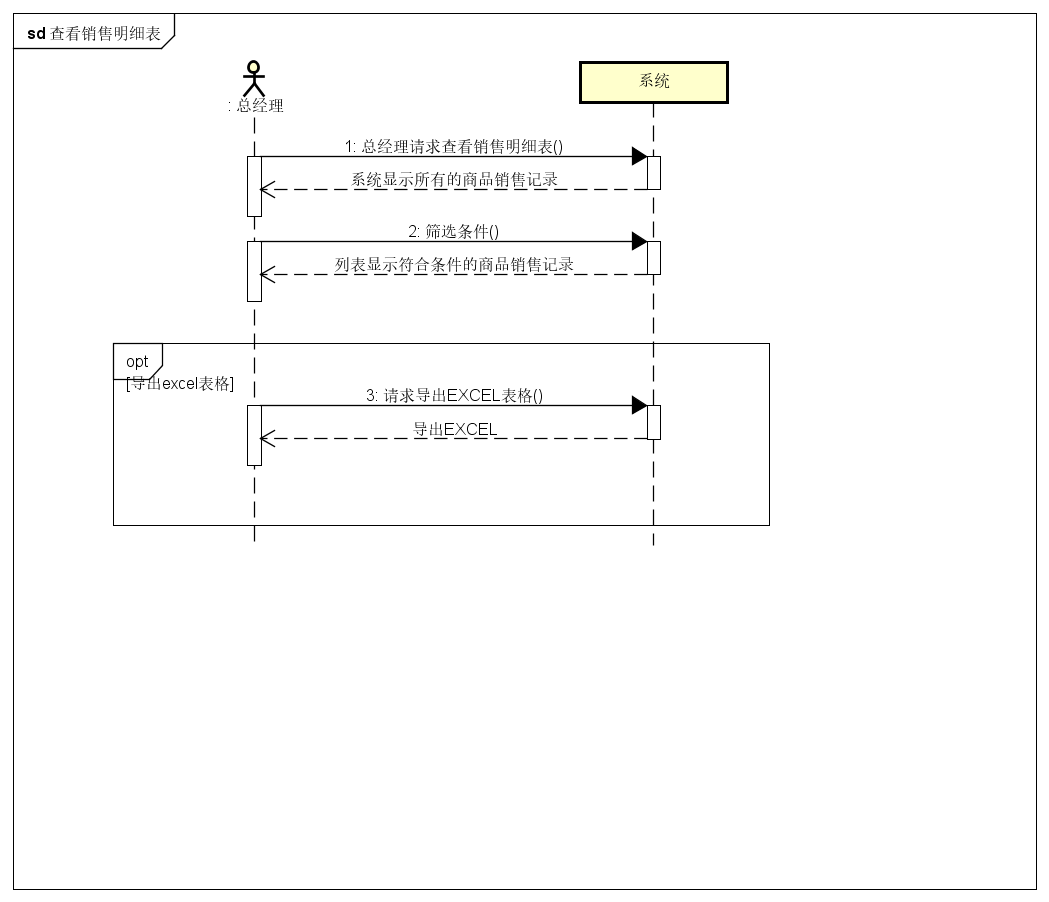
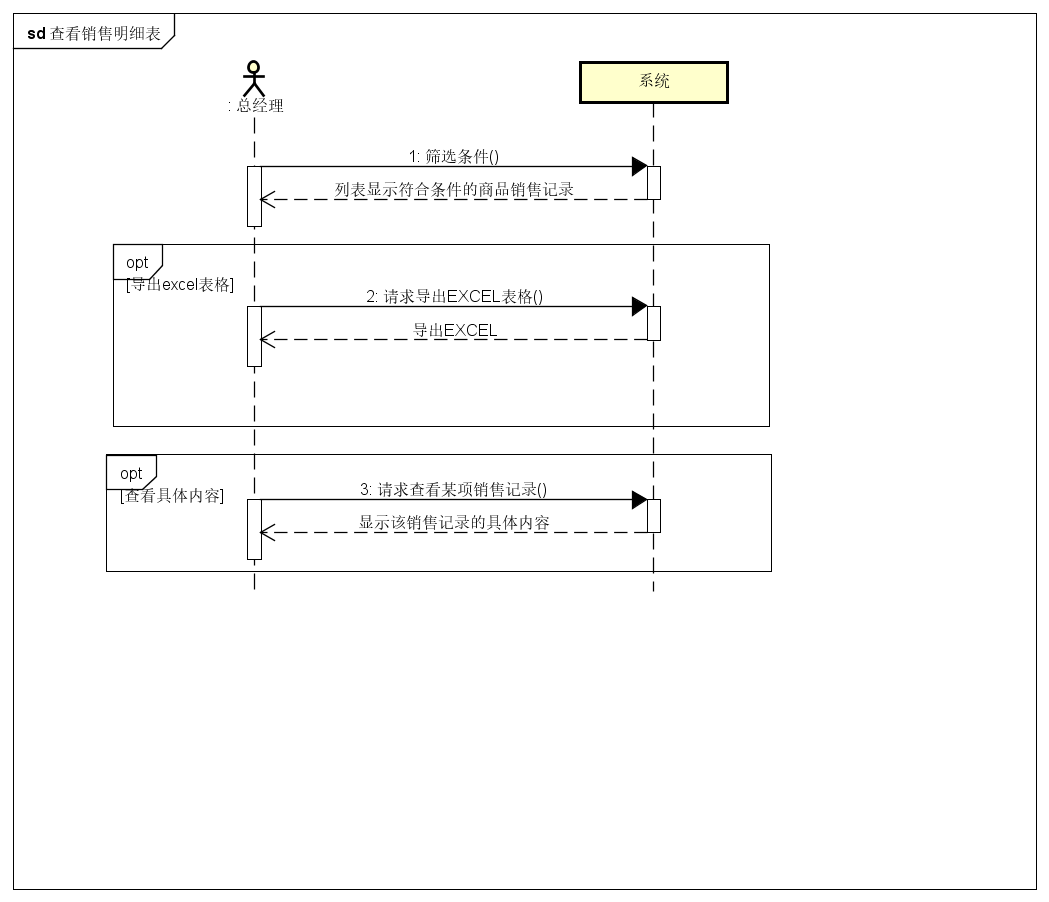
细化查看经营历程表和销售明细表的扩展流程（增加查看某项单据或销售记录的具体内容）

diff --git a/document/Use Case Document.md b/document/Use Case Document.md
@@ -19,6 +19,7 @@
 | 廖均达            | 2017.10.13 | 修改管理系统用户用例中的错误称呼（财务人员改为管理员）；增加缩进         | 2.0.1 |
 | 訾源             | 2017.10.15 | 细化用例1，2                                  | 2.0.2 |
 | 廖均达            | 2017.10.17 | 细化期初建账用例的扩展流程（添加查看历史期初信息）                | 2.0.3 |
+| 陈俊宇            | 2017.10.18 | 细化查看销售明细表和查看经营历程表的扩展流程（可以点击某项单据查看单据具体内容） | 2.0.4 |
 
 
 
@@ -380,14 +381,14 @@
 |   时间   | 2017.9.11                                |
 |   名称   | 查看销售明细表                                  |
 | 最后更新者  | 陈俊宇                                      |
-| 最后更新日期 | 2017.9.29                                |
+| 最后更新日期 | 2017.10.18                               |
 |  参与者   | 财务人员，总经理 目的是统计一段时间内商品的销售情况               |
 |  触发条件  | 财务人员和总经理查询销售出货单据时                        |
 |  前置条件  | 财务人员和总经理必须已经被识别和授权                       |
 |  后置条件  | 无                                        |
 |  优先级   | 中等                                       |
 |  正常流程  | 1.用户发出查看销售明细表请求<br>2.系统默认以列表形式按由远及近的时间顺序显示过去所有的的商品销售记录<br>3.总经理或财务人员选择筛选条件（时间区间、商品名、客户、仓库、业务员）<br> 4.系统以列表形式显示符合条件的商品销售记录，信息包括时间、商品名、型号、数量、单价、总额 |
-|  扩展流程  | 4a.需要导出数据<br>&emsp;1.系统根据用户所选的目录生成excel文件 |
+|  扩展流程  | 4a.需要导出数据<br>&emsp;1.系统根据用户所选的目录生成excel文件<br>4b.需要查看某项单据的具体内容<br>&emsp;1.用户请求查看某项具体销售记录<br>&emsp;2.系统显示所选销售记录的具体内容<br> |
 |  特殊需求  | 可导出数据                                    |
 
 ### 用例19
@@ -399,14 +400,14 @@
 |   时间   | 2017.9.11                                |
 |   名称   | 查看经营历程表                                  |
 | 最后更新者  | 陈俊宇                                      |
-| 最后更新日期 | 2017.9.29                                |
+| 最后更新日期 | 2017.10.18                               |
 |  参与者   | 总经理及财务人员，目的是查看与管理一段时间里的所有单据              |
 |  触发条件  | 总经理或财务人员查看经营历程表时                         |
 |  前置条件  | 总经理或财务人员必须已经被识别和授权                       |
 |  后置条件  | 无                                        |
 |  优先级   | 中                                        |
 |  正常流程  | 1.总经理发出查看经营历程表请求<br>2.系统一列表形式按由近及远的时间顺序显示所有的单据<br> 3.总经理选择筛选条件（时间区间、单据类型、客户、业务员、仓库）<br>4.系统显示符合条件的所有单据 |
-|  扩展流程  | 4a.需要导出数据<br>1.系统根据用户所选的目录生成excel文件 <br>2b.财务人员请求进行红冲操作<br>    1.系统进行红冲操作并显示操作结果<br>2c.财务人员请求进行红冲并复制操作<br>    1.系统生成红冲草稿单（与之前单子一模一样但是仅仅把数量取负数的单子，模板也与之前单子相同）<br>    2.财务人员进行编辑后提交<br>    3.系统进行红冲操作并显示操作结果 |
+|  扩展流程  | 4a.需要导出数据<br>&emsp;1.系统根据用户所选的目录生成excel文件 <br>4b.需要查看某项单据的具体内容<br>&emsp;1.用户请求查看某项具体单据<br>&emsp;2.系统显示所选单据的具体内容<br>2b.财务人员请求进行红冲操作<br>    1.系统进行红冲操作并显示操作结果<br>2c.财务人员请求进行红冲并复制操作<br>    1.系统生成红冲草稿单（与之前单子一模一样但是仅仅把数量取负数的单子，模板也与之前单子相同）<br>    2.财务人员进行编辑后提交<br>    3.系统进行红冲操作并显示操作结果 |
 |  特殊需求  | 可导出数据                                    |
 
 ### 用例20

diff --git a/document/测试用例文档.md b/document/测试用例文档.md
@@ -749,17 +749,18 @@
 
 ## 查看销售明细表
 
-| 编号                        | 套件1  | 套件2  |
-| ------------------------- | ---- | ---- |
-| SaleDetail.Show           | TUS1 | TUS2 |
-| SaleDetail.Filter         | TUS1 |      |
-| SaleDetail.Filter.Null    | TUS1 |      |
-| SaleDetail.Filter.Invalid | TUS1 |      |
-| SaleDetail.Filter.Show    | TUS1 |      |
-| SaleDetail.Export         |      | TUS2 |
-| SaleDetail.Exit           | TUS1 | TUS2 |
-| SaleDetail.Log            |      | TUS2 |
-| SaleDetail.Input          | TUS1 |      |
+| 编号                        | 套件1  | 套件2  | 套件3  |
+| ------------------------- | ---- | ---- | ---- |
+| SaleDetail.Show           | TUS1 | TUS2 | TUS3 |
+| SaleDetail.Filter         | TUS1 |      |      |
+| SaleDetail.Filter.Null    | TUS1 |      |      |
+| SaleDetail.Filter.Invalid | TUS1 |      |      |
+| SaleDetail.Filter.Show    | TUS1 |      |      |
+| SaleDetail.Detail         |      |      | TUS3 |
+| SaleDetail.Export         |      | TUS2 |      |
+| SaleDetail.Exit           | TUS1 | TUS2 | TUS3 |
+| SaleDetail.Log            |      | TUS2 |      |
+| SaleDetail.Input          | TUS1 |      | TUS3 |
 
 ### TUS1
 
@@ -775,28 +776,33 @@
 | ------ | ---- | ---------------------------- |
 | TUS2-1 | 是    | 系统在用户所选择的目录下生成EXCEL文件并记录操作日志 |
 
+### TUS3
 
+| ID     | 查看具体内容 | 预期输出           |
+| ------ | ------ | -------------- |
+| TUS3-1 | 是      | 系统显示该销售记录的具体内容 |
 
 ## 查看经营历程表
 
-| 编号                             | 套件1  | 套件2  |
-| ------------------------------ | ---- | ---- |
-| BusinessHistory.Show           | TUS1 | TUS2 |
-| BusinessHistory.Filter         | TUS1 |      |
-| BusinessHistory.Filter.Null    | TUS1 |      |
-| BusinessHistory.Filter.Invalid | TUS1 |      |
-| BusinessHistory.Filter.Show    | TUS1 |      |
-| BusinessHistory.Export         |      | TUS2 |
-| BusinessHistory.Exit           | TUS1 | TUS2 |
-| BusinessHistory.Log            |      | TUS2 |
-| BusinessHistory.Input          | TUS1 | TUS2 |
+| 编号                             | 套件1  | 套件2  | 套件3  |
+| ------------------------------ | ---- | ---- | ---- |
+| BusinessHistory.Show           | TUS1 | TUS2 | TUS3 |
+| BusinessHistory.Filter         | TUS1 |      |      |
+| BusinessHistory.Filter.Null    | TUS1 |      |      |
+| BusinessHistory.Filter.Invalid | TUS1 |      |      |
+| BusinessHistory.Filter.Show    | TUS1 |      |      |
+| BusinessHistory.Detail         |      |      | TUS3 |
+| BusinessHistory.Export         |      | TUS2 |      |
+| BusinessHistory.Exit           | TUS1 | TUS2 | TUS3 |
+| BusinessHistory.Log            |      | TUS2 |      |
+| BusinessHistory.Input          | TUS1 | TUS2 | TUS3 |
 
 ### TUS1
 
 | ID     | 筛选条件                        | 预期输出                       |
 | ------ | --------------------------- | -------------------------- |
 | TUS1-1 | 时间区间：2017.6.30-2017.3.20并确认 | 系统提示时间区间填写错误，并重新显示设置筛选条件界面 |
-| TUS1-2 | 单据类型：赠品单 并确认                | 列表形式所有符合条件的商品销售记录          |
+| TUS1-2 | 单据类型：赠品单 并确认                | 列表形式所有符合条件的单据              |
 | TUS1-3 | 无并确认                        | 系统提示未设置筛选条件，重新回到设置筛选条件界面   |
 
 ### TUS2
@@ -805,7 +811,11 @@
 | ------ | ---- | ---------------------------- |
 | TUS2-1 | 是    | 系统在用户所选择的目录下生成EXCEL文件并记录操作日志 |
 
+### TUS3
 
+| ID     | 查看具体内容 | 预期输出         |
+| ------ | ------ | ------------ |
+| TUS3-1 | 是      | 系统显示该单据的具体内容 |
 
 ## 查看经营情况表
 

diff --git a/document/需求度量文档.md b/document/需求度量文档.md
@@ -1,6 +1,6 @@
 # 需求度量
 
-功能点合计：2478
+功能点合计：2497
 
 
 ## 商品分类管理
@@ -450,11 +450,11 @@
 ## 查看销售明细表
 
 - 输入：1
-- 输出：6
-- 查询：6
+- 输出：7
+- 查询：7
 - 逻辑文件：2
 - 对外接口：0
-- 功能点FP=81.9
+- 功能点FP=91.4
 
 | 编号                        | 需求描述                                     |
 | ------------------------- | ---------------------------------------- |
@@ -463,6 +463,7 @@
 | SaleDetail.Filter.Invalid | 当用户确认筛选条件时**（查询）**，若筛选条件非法（如起始时间晚于终止时间等），则系统应该提示筛选条件非法**（输出）**并重新回到设置筛选条件界面**（查询；输出）** |
 | SaleDetail.Filter.Null    | 当用户未设置筛选条件就直接确认时，系统提示筛选条件为空**（输出）**      |
 | SaleDetail.Filter.Show    | 当用户确认筛选条件并确认合法后，系统需要显示所有符合条件的商品销售记录**（输出）** |
+| SaleDetail.Detail         | 当用户请求查看某项销售记录时**（查询）**，系统显示该销售记录的具体内容**（输出）** |
 | SaleDetail.Export         | 当用户请求导出报表时**（查询）**，系统需要按用户所选的目录生成EXCEL**（输出）**文件并记录操作日志（参见SaleDetail.Log） |
 | SaleDetail.Exit           | 系统允许用户退出当前任务**（查询）**                     |
 | SaleDetail.Log            | 系统要对操作的时间、行为、结果、操作人进行记录**（逻辑文件）**        |
@@ -471,11 +472,11 @@
 ## 查看经营历程表
 
 - 输入：1
-- 输出：6
-- 查询：6
+- 输出：7
+- 查询：7
 - 逻辑文件：2
 - 对外接口：0
-- 功能点FP=81.9
+- 功能点FP=91.4
 
 | 编号                             | 需求描述                                     |
 | ------------------------------ | ---------------------------------------- |
@@ -484,6 +485,7 @@
 | BusinessHistory.Filter.Null    | 当用户未设置筛选条件就直接确认时，系统提示筛选条件为空**（输出）**      |
 | BusinessHistory.Filter.Invalid | 当用户确认筛选条件时**（查询）**，若筛选条件非法（如起始时间晚于终止时间等），则系统应该提示筛选条件非法**（输出）**并重新回到设置筛选条件界面**（查询；输出）** |
 | BusinessHistory.Filter.Show    | 当用户确认筛选条件并确认合法后，系统需要显示所有符合条件的商品销售记录**（输出）** |
+| BusinessHistory.Detail         | 当用户请求**（查询）**查看某项单据时，系统显示该单据的具体内容**（输出）** |
 | BusinessHistory.Export         | 当用户请求导出报表时**（查询）**，系统需要按用户所选的目录生成EXCEL文件**（输出）**并记录操作日志（参见BusinessHistory.Log） |
 | BusinessHistory.Exit           | 系统允许用户退出当前任务**（查询）**                     |
 | BusinessHistory.Log            | 系统要对操作的时间、行为、结果、操作人进行记录**（逻辑文件）**        |
